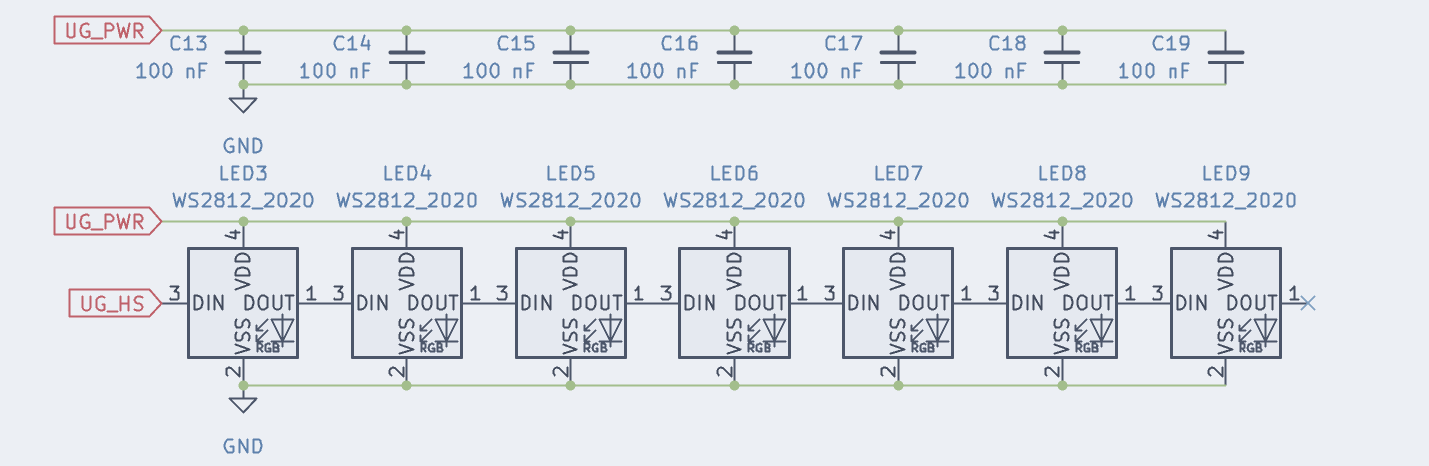
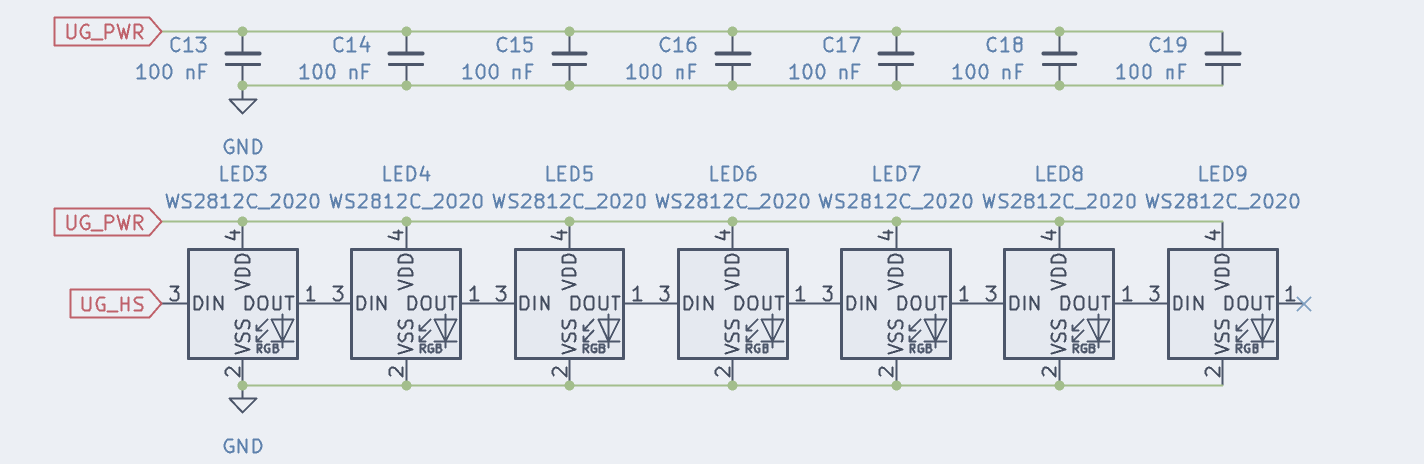
included all pictures in the doc, changed underglow led model

Changed region(s): [[0.0309, 0.2716, 0.927, 0.875], [0.0309, 0.0302, 0.8652, 0.2414], [0.1545, 0.9353, 0.1854, 0.9957]]

diff --git a/readme.md b/readme.md
@@ -107,23 +107,21 @@ The Moko is a slightly more advanced module, allowing for full HV mode. Quick de
 A dedicated voltage sensing pin is not needed for this schematic, since the nRF52840 can use `VDDH` for voltage sensing as well, all other pins are handled the same way as on the holyiot.
 
 ### Vsense
-![vsense](img/vsense.png)
-
-A voltage divider, used to get the battery voltage down below 3.3 V, allowing the MCU to read the current voltage for battery charge level reporting. These values have been used on the nice!nano before and are somewhat the ZMK default by now.
+![vsense](img/voltage_sensing_simple_1.png) ![vsense](img/voltage_sensing_advanced_1.png)
 
 
 ### Switch matrix
-![switch matrix](img/sw-matrix.png)
+![switch matrix](img/switch_matrix_1.png)
 
-Not much to see here. Just a generic 2x2 switch matrix. I used common cathode SOT-23-3 diodes since I prefer the cleaner look and easier hand solderability of those. Regular 1N4148W or other diodes will work just as well.
+Not much to see here. Just a generic 2x2 switch matrix. I used 1N4148WS, but most signal diodes will work just as well. SOT-23-3 common cathode diodes like BAV70 can help reaching a clean PCB look on ortho/row stagger, but are annoying to use on col stagger boards.
 
 ### Underglow
-![underglow control](img/ug-control.png)
+![underglow control](img/underglow_1.png)
 
-This schematic consists of 2 parts. the left allows us to completely cut supply voltage for the underglow when it is disabled (ZMK does this automatically), saving ~1 mA per LED quiescent current - and therefore increasing battery life by multiple orders of magnitude. If the LEDs are turned off, UG_EN is low, therefore the gate of Q3 is low, and the gate of Q2 is high - this leads to no current flowing anywhere in the circuit. Once UG_EN is high, so is the gate of Q3, which in turn pulls the gate of G2 low. In this state, both 10k resistors allow current flowing to GND, but compared to the LED current the current through both resistors is negligibly small.
+This schematic consists of 2 parts. The left allows us to completely cut supply voltage for the underglow when it is disabled (ZMK does this automatically), saving up to 1 mA per LED quiescent current - and therefore increasing battery life by multiple orders of magnitude. If the LEDs are turned off, `UG_EN` is low, therefore the gate of `Q4` is low, and the gate of `Q3` is high - this leads to no current flowing anywhere in the circuit. Once `UG_EN` is high, so is the gate of `Q4`, which in turn pulls the gate of `G3` low. In this state, both 10k resistors allow current flowing to GND, but compared to the LED current the current through both resistors is negligibly small.
 
-The right schematic is a levelshifter, intended to translate the 3.3 V signal level from the MCU up to Vbat level output voltages. SK6812MINI need 3.4 V for a logical high, while WS2812 only need 0.7 times Vcc, which would be 2.95V on a full Li battery cell. The levelshifter can be omitted, since both LEDs are proven to work with 3.3 V signal level in most cases - I included it for safety since I did not want to run the SK6812MINI out of specs. In case of doubt, check your desired LED's datasheet. Most need 0.7 times Vcc signal level, which can easily be reached without a levelshifter. And all others (like the SK6812MINI) should work without one too, though out-of-spec.
+The right schematic is a levelshifter, intended to translate the 3.3 V signal level from the MCU up to Vbat level output voltages. SK6812MINI need 3.4 V for a logical high, while WS2812 only need 0.7 times Vcc, which would be 2.95V on a full Li battery cell. The WS2812C_2020 used in this example [work with 2.7 V](https://cdn.sparkfun.com/assets/e/1/0/f/b/WS2812C-2020_V1.2_EN_19112716191654.pdf). The levelshifter can usually be omitted, since most types of adressable LEDs are proven to work with 3.3 V signal level - I included it as an example since you may need it to run some LEDs in spec. In case of doubt, check your desired LED's datasheet. Most need 0.7 times Vcc signal level, which can easily be reached without a levelshifter. The WS2812C_2020 used here would not need it either. All others (like SK6812MINI) should work without one too, though out-of-spec. Use at your own risk.
 
-![underglow leds](img/ug-leds.png)
+![underglow leds](img/underglow_2.png)
 
-The LEDs are straightforward - make a chain, connect Vdd to your power source (UG_PWR flag in this case) and the data pin to either UG_HV (if you wanna use the levelshifter) or UG_LV (if you address them directly from the MCU). Don't forget to include the 100 nF cap which most addressable LEDs need and keep it close.
+The LEDs are straightforward - make a chain, connect Vdd to your power source (UG_PWR flag in this case) and the data pin to either UG_HV (if you want to use the levelshifter) or UG_LV (if you address them directly from the MCU). Don't forget to include the 100 nF cap which most addressable LEDs need and keep it close, but double-check with the datasheet. Newer revisions may not need those anymore.
